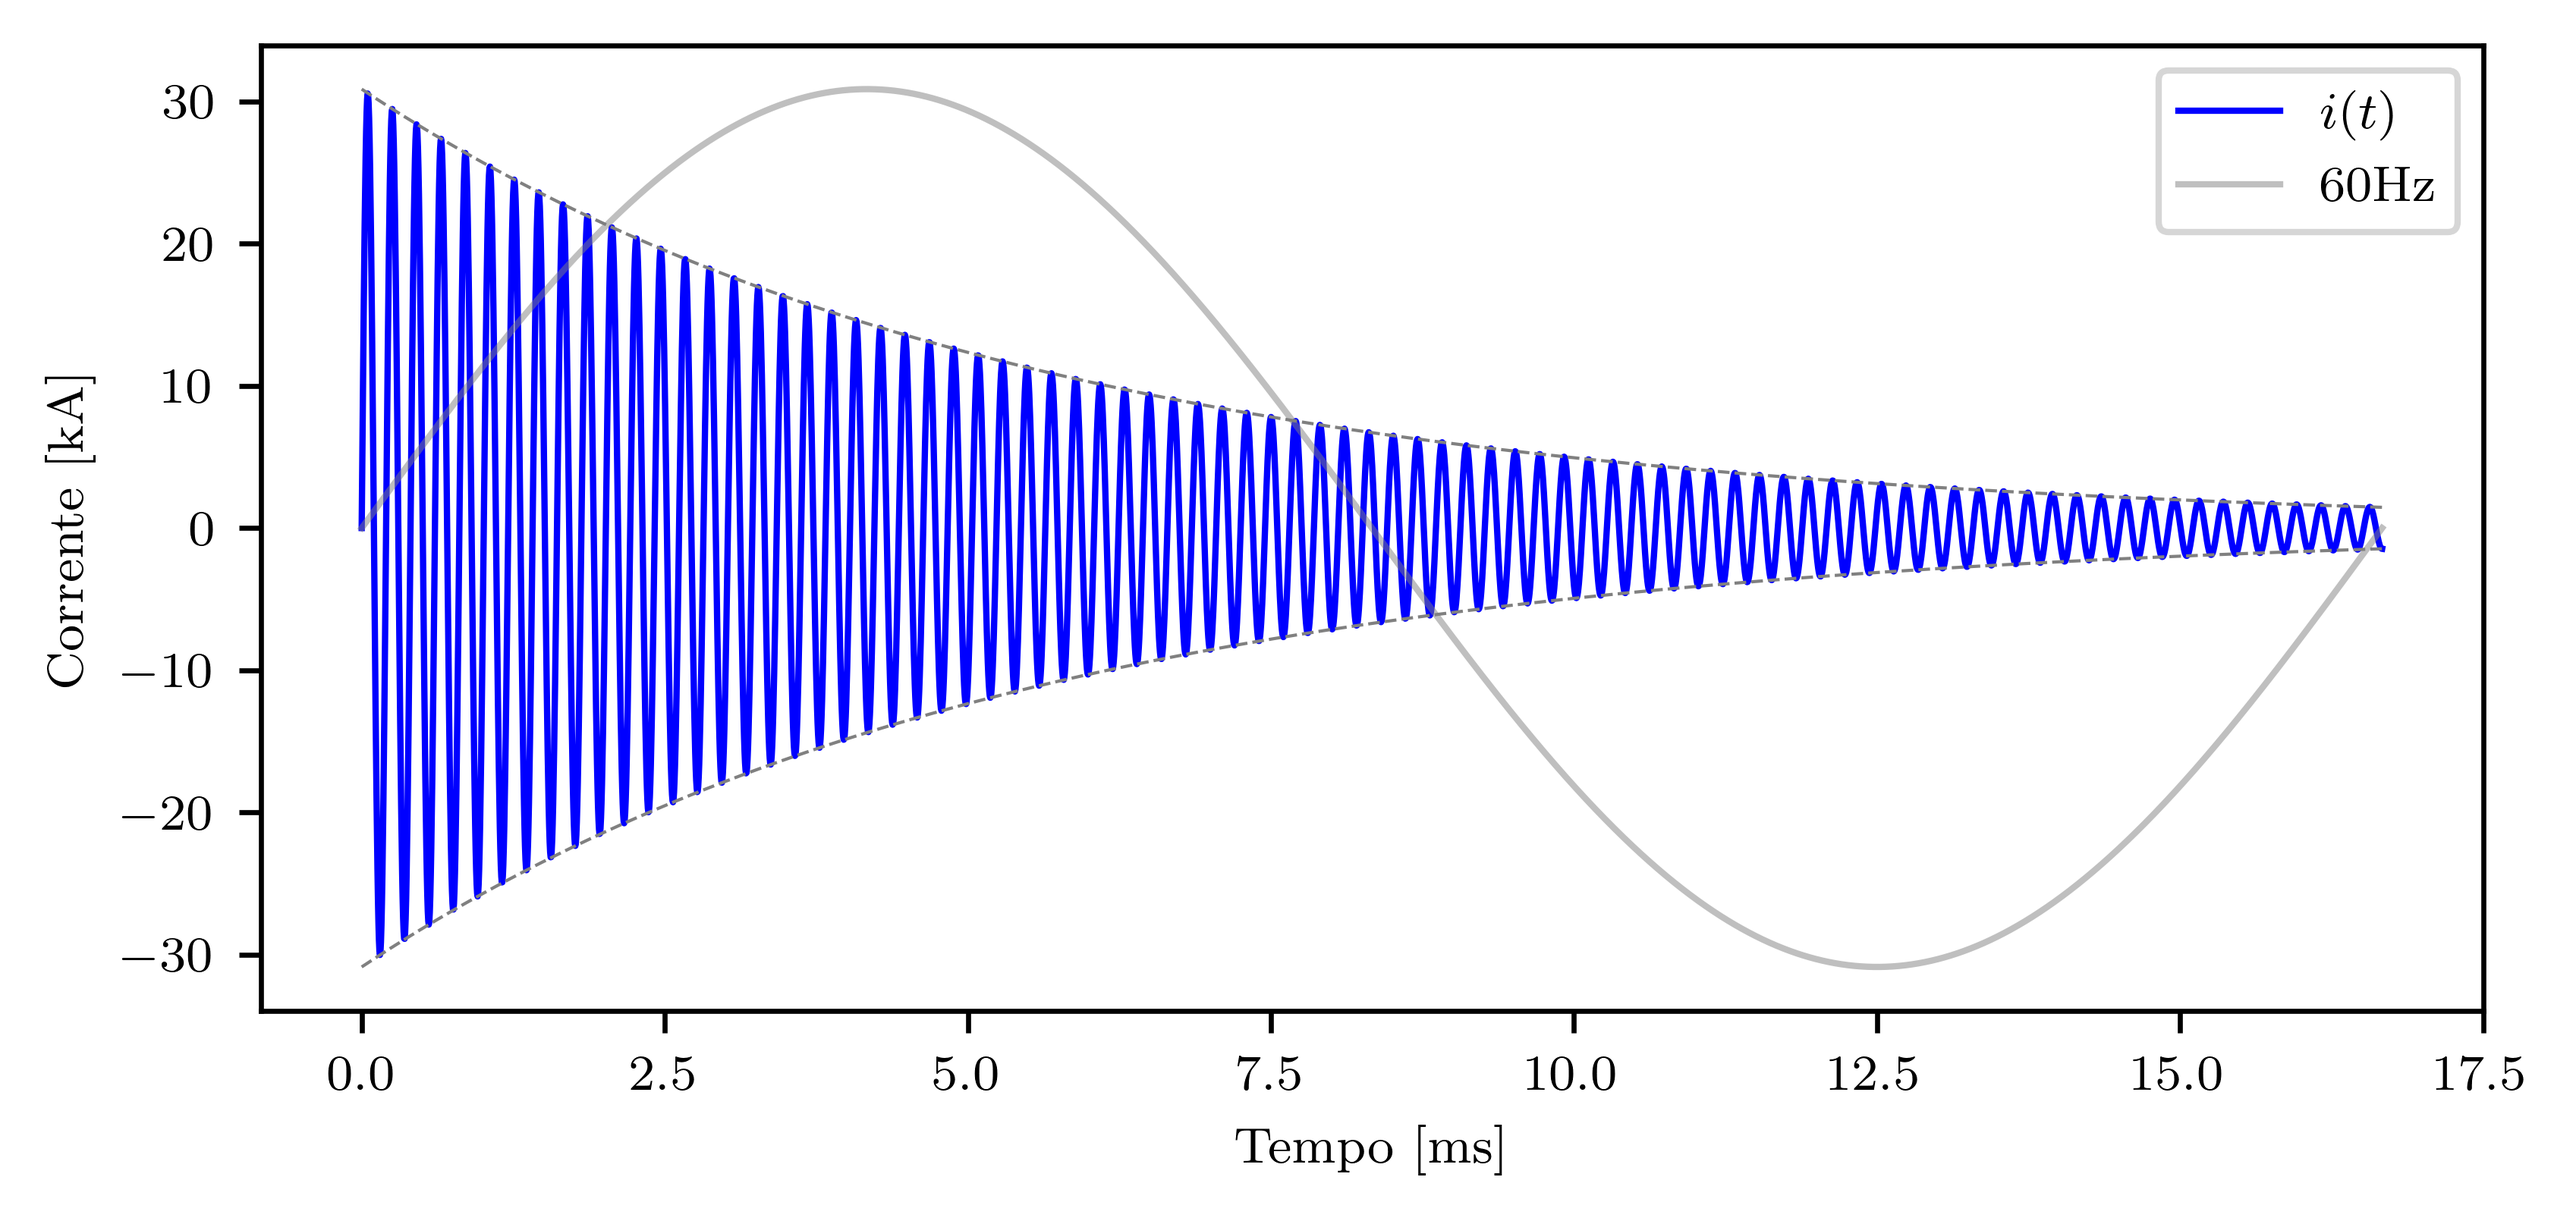
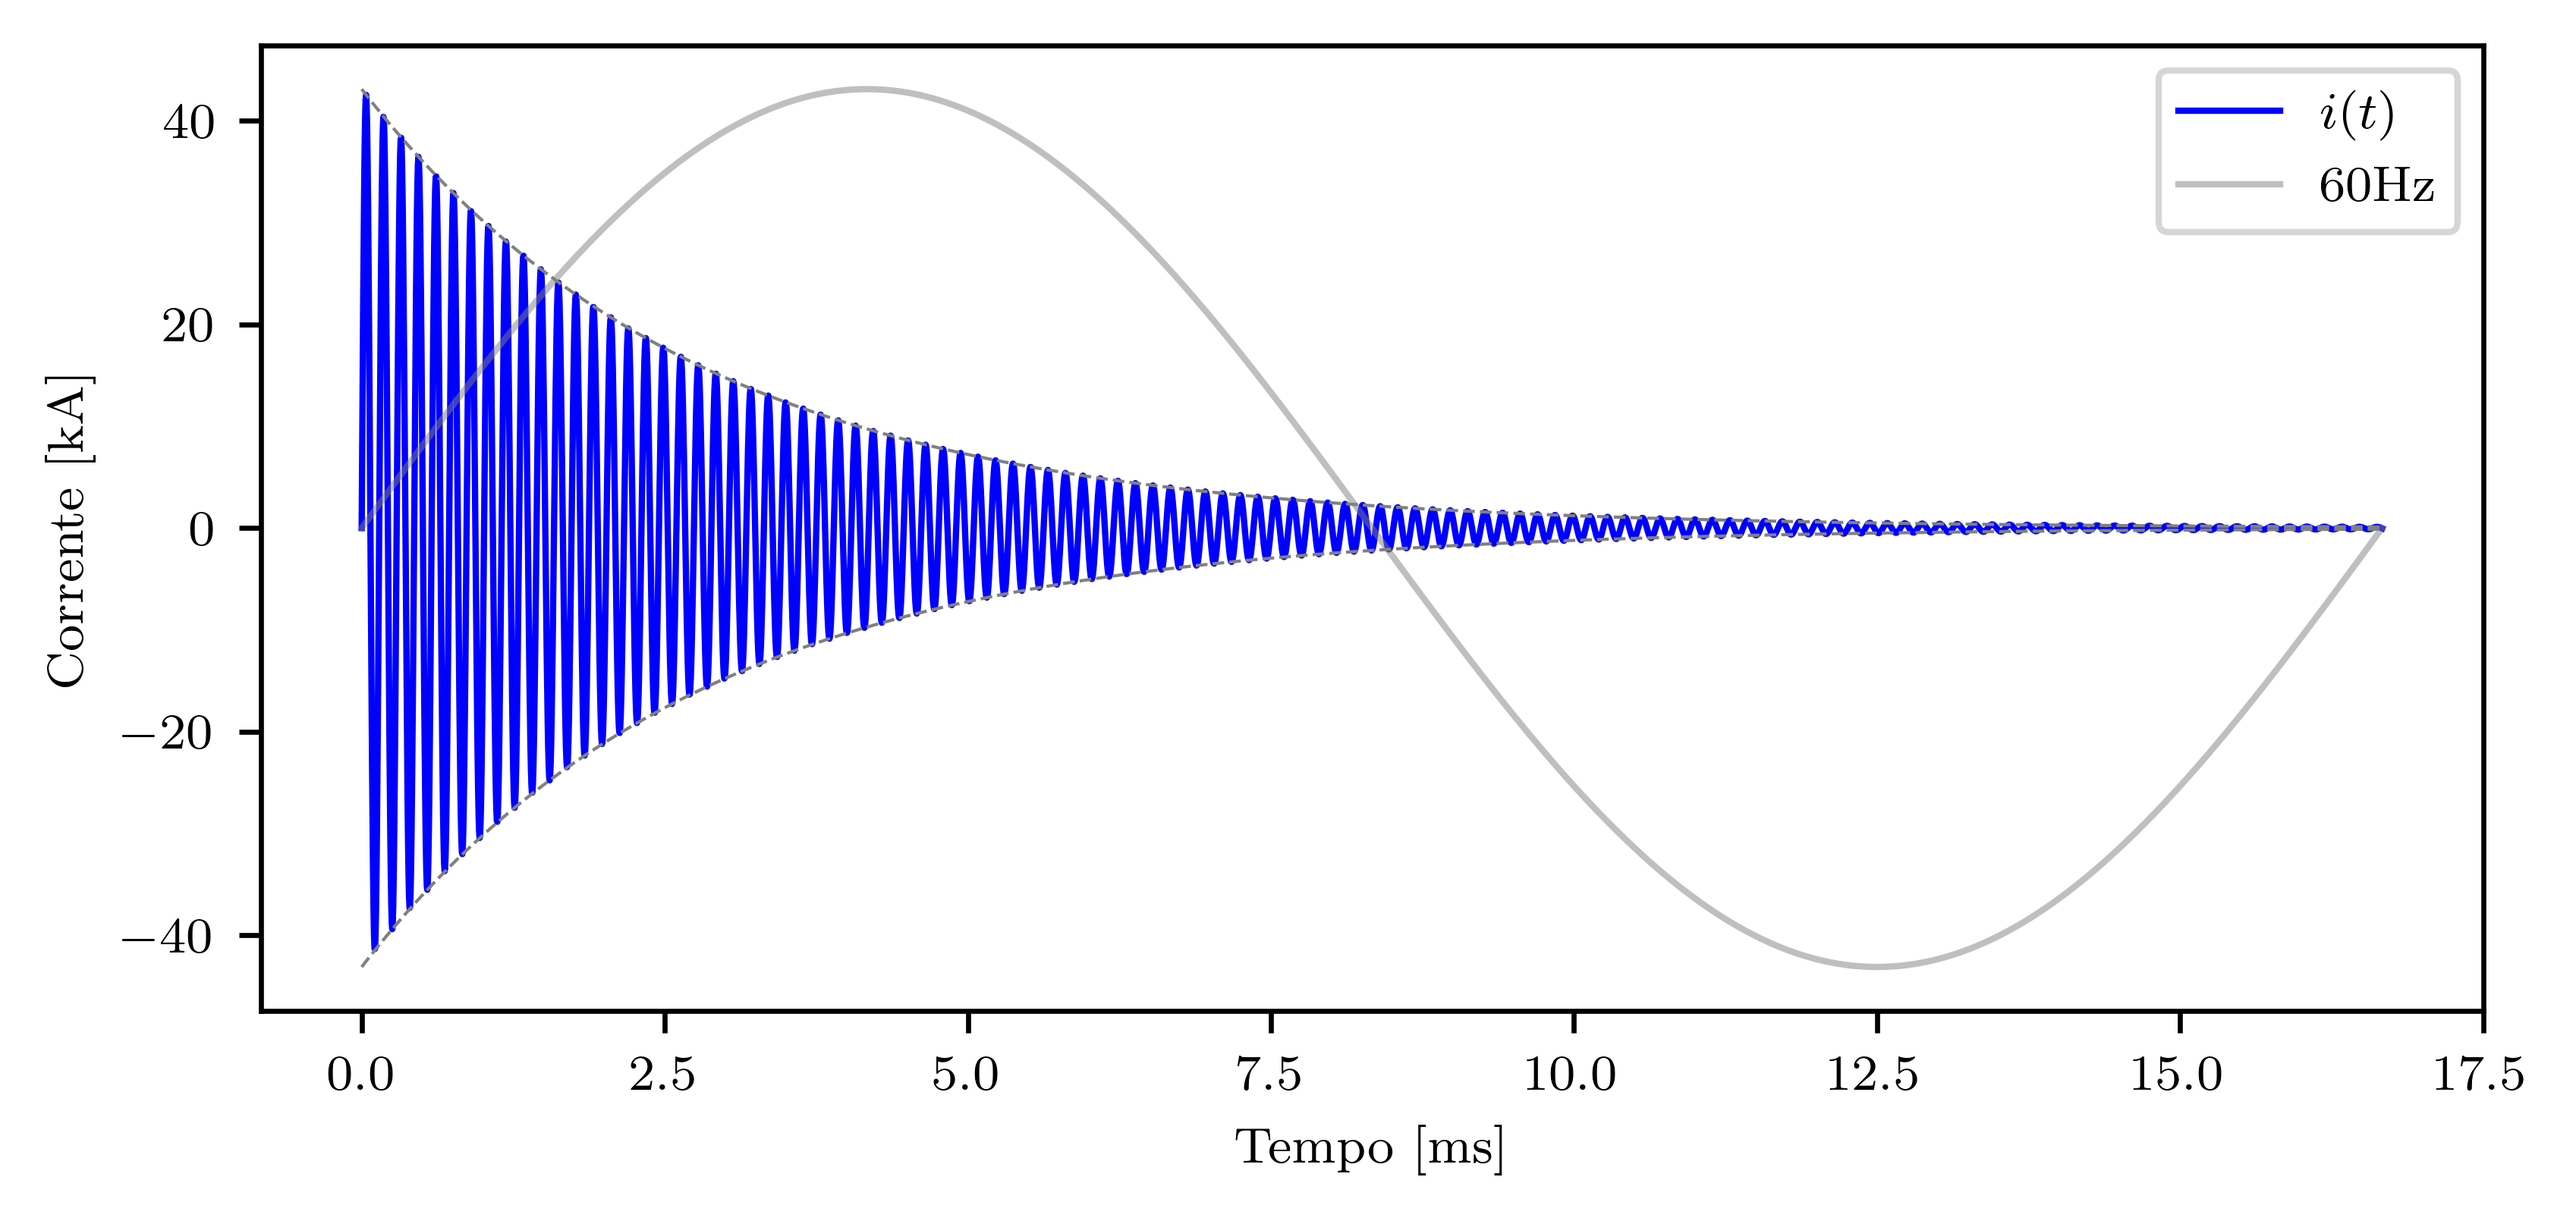
colocar dabela de dados no PDF

diff --git a/back_to_back_v5.py b/back_to_back_v5.py
@@ -2,8 +2,6 @@
 Angelo Alfredo Hafner
 aah@dax.energy
 """
-import locale
-locale.setlocale(locale.LC_ALL, 'pt_BR.UTF-8')
 from matplotlib.ticker import EngFormatter
 import numpy as np
 import pandas as pd
@@ -199,20 +197,22 @@ den_i = L_eq_isolado * w_isolado
 i_pico_inicial_isolado = FC * num_i / den_i
 
 # === back-to-back ===
-C_paralelos = np.sum(C[1:])
-den_C = 1 / C[0] + 1 / C_paralelos
-C_eq = 1 / den_C
+def back_to_back(C, L):
+    C_paralelos = np.sum(C[1:])
+    den_C = 1 / C[0] + 1 / C_paralelos
+    C_eq = 1 / den_C
 
-L_paralelos = 1 / np.sum(1 / L[1:])
-L_eq = L[0] + L_paralelos
+    L_paralelos = 1 / np.sum(1 / L[1:])
+    L_eq = L[0] + L_paralelos
 
-raiz = -(R_eq / L_eq) ** 2 + 4 / (C_eq * L_eq)
-omega = np.sqrt(raiz) / 2
-num_i = V_fn * np.sqrt(2)
-den_i = L_eq * omega
-i_pico_inical = FC * num_i / den_i
-sigma = R_eq / (2 * L_eq)
-
+    raiz = -(R_eq / L_eq) ** 2 + 4 / (C_eq * L_eq)
+    omega = np.sqrt(raiz) / 2
+    num_i = V_fn * np.sqrt(2)
+    den_i = L_eq * omega
+    i_pico_inical = FC * num_i / den_i
+    sigma = R_eq / (2 * L_eq)
+    return [i_pico_inical, sigma, omega]
+i_pico_inical, sigma, omega = back_to_back(C, L)
 t = np.linspace(0, 1 / 60, 1 * int(2 ** 12))
 i_curto = i_pico_inical * np.exp(-sigma * t) * np.sin(omega * t)
 # i_curto = i_curto + I_fn[0] * np.sqrt(2) * np.sin(w_fund * t)
